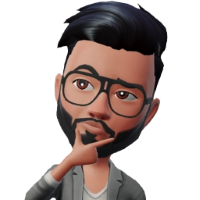
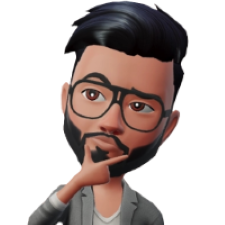
started Layout v2

diff --git a/css/styles.css b/css/styles.css
@@ -10,15 +10,14 @@ h1, h2, h3, a:hover, #mts-link{
 
 h2{
     font-size: 2rem;
-    font-weight: 700;
-    font-family: 'bradley hand itc', 'Nanum Pen Script', serif;
+    font-family: 'Gabriela', serif;
 }
 
 h3{
     font-size: 1.3125em;
 }
 
-p, a, .btn{
+p, a, .btn, #mts-link:hover{
     color: #ECF2FF;
     line-height: 1.75;
     text-decoration: none;
@@ -26,10 +25,10 @@ p, a, .btn{
 
 hr{
     border-style: dotted none none;
-    border-width: 6px;
-    border-color: #A86464;
+    border-width: 8px;
+    border-color: #ECF2FF;
     margin: auto;
-    width: 4%;
+    width: 5%;
 }
 
 #first-section, #second-section, #contact-me{
@@ -38,12 +37,22 @@ hr{
 }
 
 /*Navigation Bar*/
+.icon-img{
+    background-color: #fec1ae;
+    border-radius: 100%;
+}
+
+.icon-img:hover{
+    background-color: #fff;
+}
+
 .navbar-mysetup{
     padding: 45px 12.5%;
 }
 
 .nav-link{
     color: #fff;
+    font-size: 1.125em;
 }
 
 .nav-link:hover{
@@ -57,30 +66,31 @@ hr{
 }
 
 #first-section{
-    background-color: #23272a; /*B4E4FF*/
+    background-image: url("background-img.jpg");
+    background-color: #000; /*B4E4FF*/
+    background-position: center;
+    background-repeat: no-repeat;
+    background-size: cover;
+    position: relative;
+    height: auto;
 }
 
-#second-section{
-    background-color: #2B4865; /*ECF2FF*/
-}
-
-#third-section{
-    background-color: #2E4F4F; /*B3E5BE*/
+.top-container{
+    padding: 10px;
 }
 
 /*Font Stylings*/
 #my-name{
-    font-family: 'tempus sans itc', 'segoe script', 'sacramento';
-    font-size: 4.25em;
-    margin:50px auto 0px;
+    font-family: 'Tangerine';
+    font-size: 5em;
+    margin:75px auto 0px;
 }
 
 .sub-headings{
-    font-size: 2.25rem;
     padding: 20px;
 }
 
-/*For Animations*/
+/*Type Writer Animation*/
 #engineer{
     display: inline-block;
     padding: 5px;
@@ -97,28 +107,40 @@ hr{
     to { width: 100%; }
 }
 
-/*Cloud Positioning*/
-#cloud1{
-    position: absolute;
-    left: 70%;
-    top: 535px;
+/*Gear Wheel Animation*/
+.rotate {
+  animation: rotation 8s;
 }
 
-#cloud2{
-    position: absolute;
-    left: 23%;
-    top: 475px;
+.linear {
+  animation-timing-function: linear;
+}
+
+.infinite {
+  animation-iteration-count: infinite;
+}
+
+@keyframes rotation {
+  from {
+    transform: rotate(0deg);
+  }
+  to {
+    transform: rotate(359deg);
+  }
+}
+
+#second-section{
+    background-color: #000; /*ECF2FF*/
+}
+
+#third-section{
+    background-color: #131416; /*B3E5BE*/
 }
 
 .profile{
     margin: auto;
     max-width: 525px;
     padding: 0px 15px;
-}
-
-#profile-pic{
-    border-radius: 100%;
-    margin: 20px auto;
 }
 
 .skills{
@@ -171,35 +193,28 @@ hr{
 
 @media (max-width: 600px){
     #my-name{
-        font-size: 3.5rem;
+        font-size: 4.25rem;
+        margin:25px auto 0px;
     }
+    h2{
+        font-size: 1.5rem;
+    }
+    h3{
+        font-size: 1.25rem;
+    }
+}
+
+@media (max-width: 750px){
     .navbar-mysetup{
-        padding: 20px 7.5%;
+        padding: 20px 3.5%;
     }
 
     .nav-link{
-        font-size: 1rem;
+        font-size: 0.925rem;
     }
 
     .nav-item{
         padding: 8px;
-    }
-
-    #mountain-img{
-        width: 100%;
-    }
-    #cloud1{
-        position: absolute;
-        left: 25%;
-        top: 400px;
-        width: 15%;
-    }
-
-    #cloud2{
-        position: absolute;
-        left: 65%;
-        top: 450px;
-        width: 20%;
     }
 }
 

diff --git a/index.html b/index.html
@@ -17,7 +17,7 @@
     <!-- Adding Fonts from Google -->
     <link rel="preconnect" href="https://fonts.googleapis.com">
     <link rel="preconnect" href="https://fonts.gstatic.com" crossorigin>
-    <link href="https://fonts.googleapis.com/css2?family=Merriweather&family=Montserrat&family=Sacramento&family=Tangerine&family=Nanum+Pen+Script&display=swap" rel="stylesheet">
+    <link href="https://fonts.googleapis.com/css2?family=Gabriela&family=Montserrat&family=Tangerine&family=Nanum+Pen+Script&display=swap" rel="stylesheet">
 
 </head>
 
@@ -34,16 +34,16 @@
         <!-- Creating a Navigation Bar -->
         <nav class="navbar navbar-expand navbar-dark navbar-mysetup">
             <a class="navbar-brand active" href="#second-section">
-                <img src="images/icon.png" alt="Home-Page" width="72">
+                <img class="icon-img"src="images/profile.png" alt="Home-Page" width="80">
             </a>
             <ul class="navbar-nav ms-auto">
+                <li class="nav-item"><a class="nav-link" href="#third-section">Path</a></li>
                 <li class="nav-item"><a class="nav-link" href="">Projects</a></li>
                 <li class="nav-item"><a class="nav-link" href="#third-section">Text Me</a></li>
             </ul>
         </nav>
 
         <div class="top-container">
-            <img id="cloud1" src="images/cloud.png" alt="cloud-img">
             <h1 id="my-name">I'm Hari Vikinesh</h1>
             <!-- Creating a seperate container for animation texts -->
             <div id="engineer">
@@ -52,26 +52,20 @@
                     <h2><a id="mts-link" href="https://en.wikipedia.org/wiki/Mechatronics">Mechatronics</a> Engineer.</h2>
                 </div>
             </div>
-            <img id="cloud2" src="images/cloud.png" alt="cloud-img">
-            <div class="mountain-img-block">
-                <img id="mountain-img" src="images/mountain.png" alt="mountain-img">
+            <div class="profile">
+                <p>ROS developer and Programmer. I have a passion for Mobile Robotics and Web Designing. I am always keen to acquire new skills.</p>
             </div>
+            <img class="rotate linear infinite" src="images/gear.png" alt="gear-img">
         </div>
     </section>
 
     <section id="second-section">
         <!-- Main Contents -->
-        <div class="profile">
-            <img id="profile-pic" src="images/profile.png" alt="profile-pic">
-            <h2>Hello.</h2>
-            <p>I’m a ROS developer and a programmer. I have a passion for Mobile Robotics and Web Designing. I am always keen to acquire new skills.</p>
-        </div>
-        <hr>
         <div class="skills">
-            <h2 class="sub-headings">My Skills.</h2>
+            <h2 class="sub-headings">What I can do.</h2>
             <div class="row">
                 <div class="col-lg-3">
-                    <img src="images/mechatron.png" alt="mechatronics-img">
+                    <img src="images/build.png" alt="mechatronics-img">
                 </div>
                 <div class="col-lg-9">
                     <div class="skill-text">
